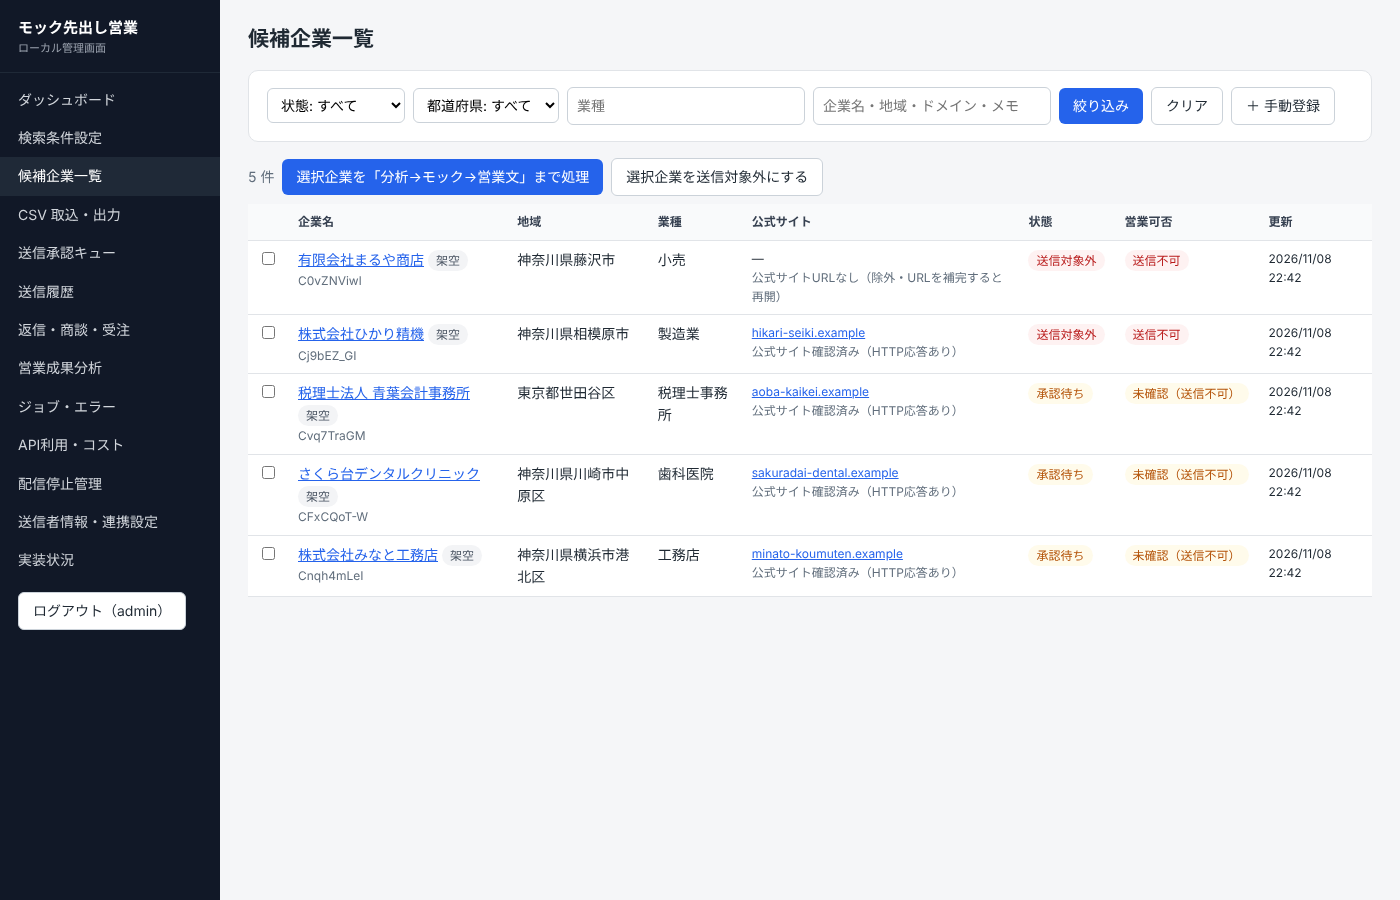
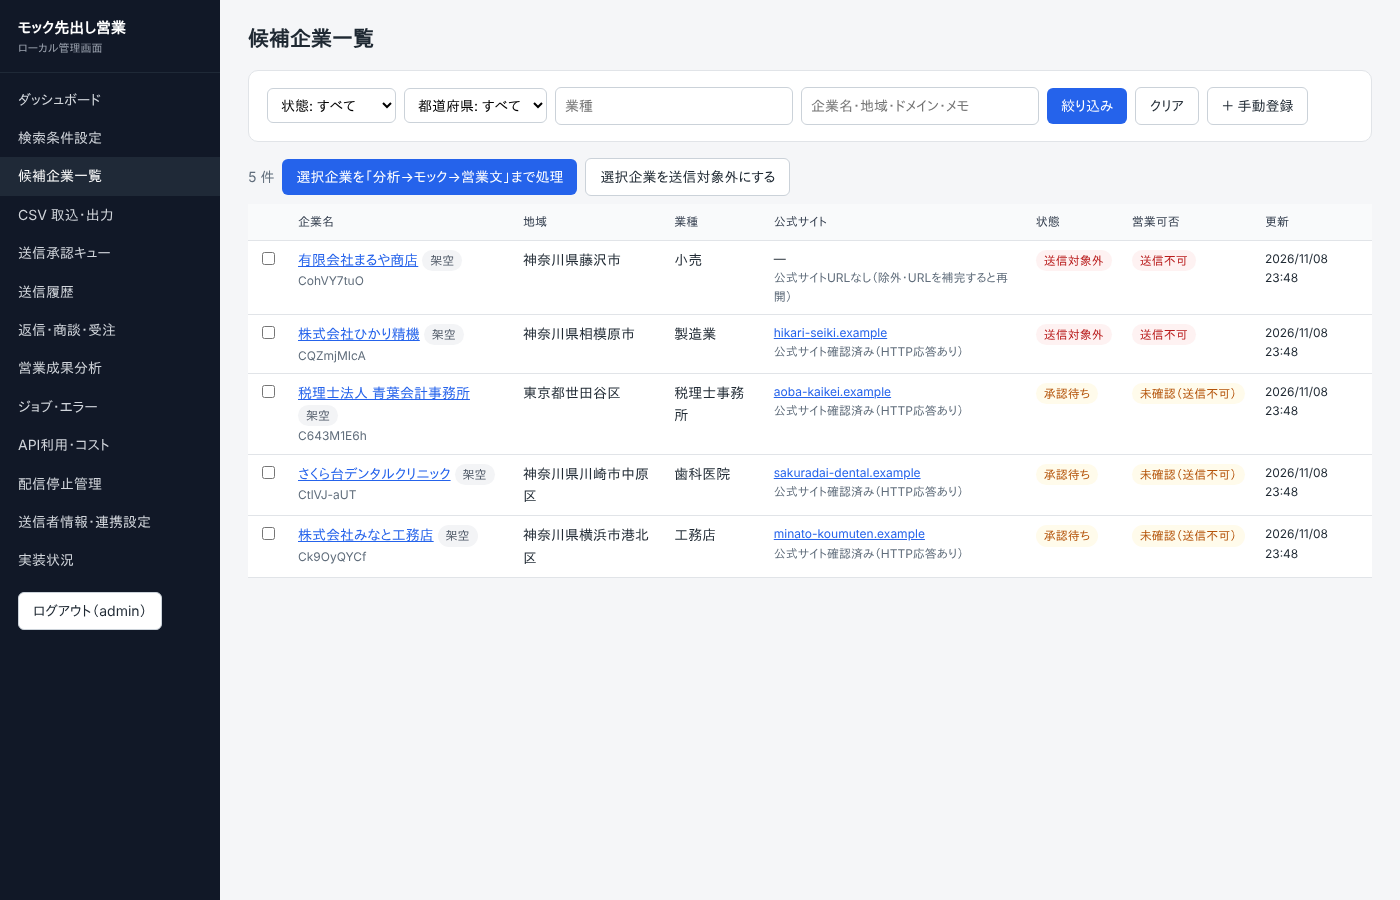
CLAUDE.md を追加し、テスト・E2E の再実行結果を記録
- CLAUDE.md: 作業前に AGENTS.md を読みルールに従うこと、主要コマンド
- docs/TEST_RESULTS.md: Linux での再実行結果（Windows は未確認）を追記
- docs/verification/: npm run e2e の再実行で記録とスクリーンショットを更新

Claude-Session: https://claude.ai/code/session_01PBvQYGLGtQmPPdn9Bme8rB

diff --git a/docs/TEST_RESULTS.md b/docs/TEST_RESULTS.md
@@ -34,3 +34,19 @@ Tests  61 passed (61)
 - 本文テキストの抽出で見出しと段落が連結し、サービス名に誤った語が混入 → ブロック要素単位の抽出と列挙文の厳格な判定に変更。
 - 既存サイトの文章をモックのリード文に転載していた → 事実（サービス名・地域・アクセス）から新たに文を作る方式に変更。
 - スマートフォン幅でヒーロー部分の左右余白がなかった → 修正。
+
+## 6. 再実行記録（2026-11-08・Claude Code によるクラウド環境での確認）
+
+実行環境: Ubuntu 24.04.5 LTS（Linux 6.18, x86_64）, Node.js v22.23.4, npm 10.9.9, Google Chrome for Testing 153.0.8010.12。Microsoft Edge なし。
+
+| コマンド | 結果 |
+|---|---|
+| `npm ci` | 成功 |
+| `npm run typecheck` | エラー 0 |
+| `npm test` | 5 ファイル・61 テストすべて成功 |
+| `npm run doctor` | Node OK、ブラウザ OK（chrome）、Claude Code インストール済み、Codex CLI 未インストール |
+| `npm run e2e` | すべて成功（[verification/E2E_RESULT.md](verification/E2E_RESULT.md) とスクリーンショットを更新） |
+
+修正が必要な不具合は見つかりませんでした。
+
+> この環境は Linux のため、[SETUP_WINDOWS.md](SETUP_WINDOWS.md) の「5. Windows で確認していただく項目」は**実施していません（Windows 未確認）**。

diff --git a/CLAUDE.md b/CLAUDE.md
@@ -1,0 +1,21 @@
+# CLAUDE.md
+
+作業を始める前に必ず [AGENTS.md](AGENTS.md) を読み、そのルール（特に「絶対に守ること」の安全性の不変条件）に従ってください。AGENTS.md と矛盾する場合は AGENTS.md を優先します。
+
+## 主要コマンド
+
+```bash
+npm ci              # 依存のインストール（package-lock.json 通り）
+npm run typecheck   # 型チェック
+npm test            # 単体・HTTP 経由の受け入れテスト（Vitest）
+npm run e2e         # ブラウザ操作の検証（Chrome/Edge が必要。docs/verification/ に記録）
+npm run docs        # docs/IMPLEMENTATION_STATUS.md と docs/COSTS.md を再生成
+npm run doctor      # 環境チェック（Node / ブラウザ / AI CLI）
+npm start           # http://127.0.0.1:8787/
+```
+
+## 要点
+
+- テストや安全チェックを弱めてテストを通さない。
+- `data/` と `.env` はコミットしない。
+- 外部企業への送信・公開デプロイ・有料サービスの利用をしない。

diff --git a/docs/verification/E2E_RESULT.md b/docs/verification/E2E_RESULT.md
@@ -1,6 +1,6 @@
 # ブラウザ操作による検証記録
 
-- 実行日時: 2026-11-08T13:43:10.491Z
+- 実行日時: 2026-11-08T14:48:58.501Z
 - 実行環境: Linux 6.18.44-fc-v310 / Node v22.23.4 / Google Chrome
 - 方法: `npm run e2e`（一時データディレクトリでアプリを起動し、Playwright で管理画面を操作）
 - 対象データ: 架空企業（`.example` ドメインの固定サイト。外部通信なし）
